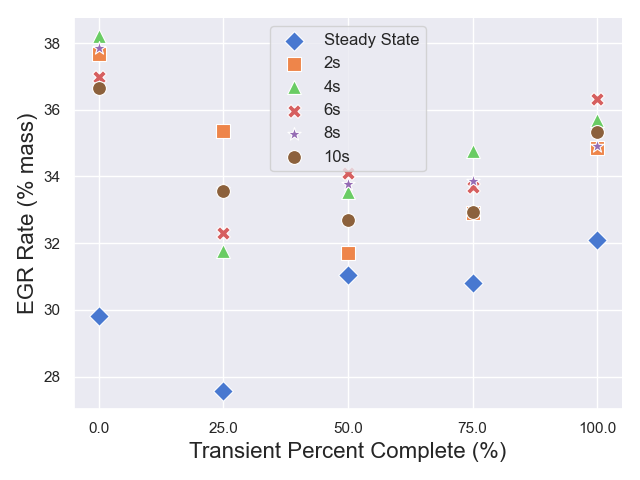
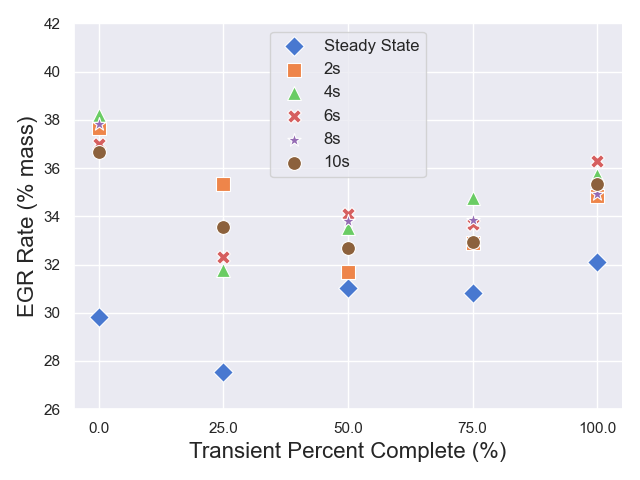
Formatted figures for submission

diff --git a/main.py b/main.py
@@ -280,7 +280,7 @@ def plot_transient_time_comparison_boost(transient_type, style):
     plt.show(block=False)
 
 
-def plot_transient_time_comparison_egr(transient_type, style):
+def plot_transient_time_comparison_egr(transient_type, style, custom_y_limits=None):
     sns.set_style(style)
 
     transient_times = [2, 4, 6, 8, 10]
@@ -312,6 +312,8 @@ def plot_transient_time_comparison_egr(transient_type, style):
         sns.scatterplot(x=[100 * x for x in percent_complete], y=values, label=str(transient_times[idx]) + "s",
                         ax=ax, legend=False, s=sizes, marker=marker_styles[idx])
 
+    if custom_y_limits is not None:
+        ax.set_ylim(custom_y_limits)
     ax.set_ylabel("EGR Rate (% mass)", fontsize=common_label_font_size)
     ax.set_xlabel("Transient Percent Complete (%)", fontsize=common_label_font_size)
     ax.set_xticks([100 * x for x in percent_complete])  # <--- set the ticks first
@@ -325,7 +327,7 @@ def plot_transient_time_comparison_egr(transient_type, style):
     plt.show(block=False)
 
 
-def plot_transient_time_comparison_bsfc(transient_type, style):
+def plot_transient_time_comparison_bsfc(transient_type, style, custom_y_limits=None):
     sns.set_style(style)
 
     transient_times = [2, 4, 6, 8, 10]
@@ -357,6 +359,8 @@ def plot_transient_time_comparison_bsfc(transient_type, style):
         sns.scatterplot(x=[100 * x for x in percent_complete], y=values, label=str(transient_times[idx]) + "s",
                         ax=ax, legend=False, s=sizes, marker=marker_styles[idx])
 
+    if custom_y_limits is not None:
+        ax.set_ylim(custom_y_limits)
     ax.set_ylabel("BSFC (g/kWh)", fontsize=common_label_font_size)
     ax.set_xlabel("Transient Percent Complete (%)", fontsize=common_label_font_size)
     ax.set_xticks([100 * x for x in percent_complete])  # <--- set the ticks first
@@ -370,7 +374,7 @@ def plot_transient_time_comparison_bsfc(transient_type, style):
     plt.show(block=False)
 
 
-def plot_transient_time_comparison_bspm(transient_type, style):
+def plot_transient_time_comparison_bspm(transient_type, style, custom_y_limits=None, number_legend_columns=1):
     sns.set_style(style)
 
     transient_times = [2, 4, 6, 8, 10]
@@ -401,13 +405,14 @@ def plot_transient_time_comparison_bspm(transient_type, style):
 
         sns.scatterplot(x=[100 * x for x in percent_complete], y=values, label=str(transient_times[idx]) + "s",
                         ax=ax, legend=False, s=sizes, marker=marker_styles[idx])
-
+    if custom_y_limits is not None:
+        ax.set_ylim(custom_y_limits)
     ax.set_yscale("log")
     ax.set_ylabel("BSPM (g/kWh)", fontsize=common_label_font_size)
     ax.set_xlabel("Transient Percent Complete (%)", fontsize=common_label_font_size)
     ax.set_xticks([100 * x for x in percent_complete])  # <--- set the ticks first
     ax.set_xticklabels([100 * x for x in percent_complete])
-    ax.legend(fontsize=common_legend_font_size)
+    ax.legend(fontsize=common_legend_font_size, ncol=number_legend_columns)
 
     plt.tight_layout()
     sns.despine()
@@ -490,9 +495,12 @@ def plot_policy_comparison_boost(policies, transient_type, style):
         values = []
         for percentage in percent_complete:
             values.append(interp(transient_complete_time[idx] * percentage).item(0))
-
-        sns.scatterplot(x=[100 * x for x in percent_complete], y=values, label="Policy " + str(policies[idx]),
-                        ax=ax, legend=False, s=sizes, marker=marker_styles[idx])
+        if idx == 0:
+            sns.scatterplot(x=[100 * x for x in percent_complete], y=values, label="Baseline",
+                            ax=ax, legend=False, s=sizes, marker=marker_styles[idx])
+        else:
+            sns.scatterplot(x=[100 * x for x in percent_complete], y=values, label="Policy " + str(policies[idx]),
+                            ax=ax, legend=False, s=sizes, marker=marker_styles[idx])
 
     ax.set_ylabel("Boost Pressure (kPa)", fontsize=common_label_font_size)
     ax.set_xlabel("Transient Percent Complete (%)", fontsize=common_label_font_size)
@@ -507,7 +515,7 @@ def plot_policy_comparison_boost(policies, transient_type, style):
     plt.show(block=False)
 
 
-def plot_policy_comparison_egr(policies, transient_type, style):
+def plot_policy_comparison_egr(policies, transient_type, style, custom_y_limits=None, number_legend_columns=1):
     sns.set_style(style)
 
     transient_complete_time = []
@@ -536,15 +544,20 @@ def plot_policy_comparison_egr(policies, transient_type, style):
         values = []
         for percentage in percent_complete:
             values.append(interp(transient_complete_time[idx] * percentage).item(0))
+        if idx == 0:
+            sns.scatterplot(x=[100 * x for x in percent_complete], y=values, label="Baseline",
+                            ax=ax, legend=False, s=sizes, marker=marker_styles[idx])
+        else:
+            sns.scatterplot(x=[100 * x for x in percent_complete], y=values, label="Policy " + str(policies[idx]),
+                            ax=ax, legend=False, s=sizes, marker=marker_styles[idx])
 
-        sns.scatterplot(x=[100 * x for x in percent_complete], y=values, label="Policy " + str(policies[idx]),
-                        ax=ax, legend=False, s=sizes, marker=marker_styles[idx])
-
+    if custom_y_limits is not None:
+        ax.set_ylim(custom_y_limits)
     ax.set_ylabel("EGR Rate (% mass)", fontsize=common_label_font_size)
     ax.set_xlabel("Transient Percent Complete (%)", fontsize=common_label_font_size)
     ax.set_xticks([100 * x for x in percent_complete])  # <--- set the ticks first
     ax.set_xticklabels([100 * x for x in percent_complete])
-    ax.legend(fontsize=common_legend_font_size)
+    ax.legend(fontsize=common_legend_font_size, ncol=number_legend_columns)
 
     plt.tight_layout()
     sns.despine()
@@ -553,7 +566,7 @@ def plot_policy_comparison_egr(policies, transient_type, style):
     plt.show(block=False)
 
 
-def plot_policy_comparison_bsfc(policies, transient_type, style):
+def plot_policy_comparison_bsfc(policies, transient_type, style, custom_y_limits=None, number_legend_columns=1):
     sns.set_style(style)
 
     transient_complete_time = []
@@ -582,15 +595,20 @@ def plot_policy_comparison_bsfc(policies, transient_type, style):
         values = []
         for percentage in percent_complete:
             values.append(interp(transient_complete_time[idx] * percentage).item(0))
+        if idx == 0:
+            sns.scatterplot(x=[100 * x for x in percent_complete], y=values, label="Baseline",
+                            ax=ax, legend=False, s=sizes, marker=marker_styles[idx])
+        else:
+            sns.scatterplot(x=[100 * x for x in percent_complete], y=values, label="Policy " + str(policies[idx]),
+                            ax=ax, legend=False, s=sizes, marker=marker_styles[idx])
 
-        sns.scatterplot(x=[100 * x for x in percent_complete], y=values, label="Policy " + str(policies[idx]),
-                        ax=ax, legend=False, s=sizes, marker=marker_styles[idx])
-
+    if custom_y_limits is not None:
+        ax.set_ylim(custom_y_limits)
     ax.set_ylabel("BSFC (g/kWh)", fontsize=common_label_font_size)
     ax.set_xlabel("Transient Percent Complete (%)", fontsize=common_label_font_size)
     ax.set_xticks([100 * x for x in percent_complete])  # <--- set the ticks first
     ax.set_xticklabels([100 * x for x in percent_complete])
-    ax.legend(fontsize=common_legend_font_size)
+    ax.legend(fontsize=common_legend_font_size, ncol=number_legend_columns)
 
     plt.tight_layout()
     sns.despine()
@@ -628,9 +646,12 @@ def plot_policy_comparison_bspm(policies, transient_type, style):
         values = []
         for percentage in percent_complete:
             values.append(interp(transient_complete_time[idx] * percentage).item(0))
-
-        sns.scatterplot(x=[100 * x for x in percent_complete], y=values, label="Policy " + str(policies[idx]),
-                        ax=ax, legend=False, s=sizes, marker=marker_styles[idx])
+        if idx == 0:
+            sns.scatterplot(x=[100 * x for x in percent_complete], y=values, label="Baseline",
+                            ax=ax, legend=False, s=sizes, marker=marker_styles[idx])
+        else:
+            sns.scatterplot(x=[100 * x for x in percent_complete], y=values, label="Policy " + str(policies[idx]),
+                            ax=ax, legend=False, s=sizes, marker=marker_styles[idx])
 
     ax.set_yscale("log")
     ax.set_ylabel("BSPM (g/kWh)", fontsize=common_label_font_size)
@@ -675,9 +696,12 @@ def plot_policy_comparison_bsno(policies, transient_type, style):
         values = []
         for percentage in percent_complete:
             values.append(interp(transient_complete_time[idx] * percentage).item(0))
-
-        sns.scatterplot(x=[100 * x for x in percent_complete], y=values, label="Policy " + str(policies[idx]),
-                        ax=ax, legend=False, s=sizes, marker=marker_styles[idx])
+        if idx == 0:
+            sns.scatterplot(x=[100 * x for x in percent_complete], y=values, label="Baseline",
+                            ax=ax, legend=False, s=sizes, marker=marker_styles[idx])
+        else:
+            sns.scatterplot(x=[100 * x for x in percent_complete], y=values, label="Policy " + str(policies[idx]),
+                            ax=ax, legend=False, s=sizes, marker=marker_styles[idx])
 
     ax.set_yscale("log")
     ax.set_ylabel("BSNO (g/kWh)", fontsize=common_label_font_size)
@@ -713,11 +737,11 @@ if __name__ == '__main__':
     #
     # plot_transient_time_comparison_boost("Load", plot_style)
     #
-    # plot_transient_time_comparison_egr("Load", plot_style)
+    # plot_transient_time_comparison_egr("Load", plot_style, custom_y_limits=[26, 42])
     #
-    # plot_transient_time_comparison_bsfc("Load", plot_style)
+    # plot_transient_time_comparison_bsfc("Load", plot_style, custom_y_limits=[160, 340])
     #
-    # plot_transient_time_comparison_bspm("Load", plot_style)
+    # plot_transient_time_comparison_bspm("Load", plot_style, custom_y_limits=[0.01, 10])
     #
     # plot_transient_time_comparison_bsno("Load", plot_style)
     #
@@ -725,28 +749,28 @@ if __name__ == '__main__':
     #
     # plot_transient_time_comparison_egr("Speed", plot_style)
     #
-    # plot_transient_time_comparison_bsfc("Speed", plot_style)
+    # plot_transient_time_comparison_bsfc("Speed", plot_style, custom_y_limits=[250, 550])
     #
-    # plot_transient_time_comparison_bspm("Speed", plot_style)
+    # plot_transient_time_comparison_bspm("Speed", plot_style, custom_y_limits=[0.01, 10], number_legend_columns=3)
     #
     # plot_transient_time_comparison_bsno("Speed", plot_style)
     #
     # plot_transient_time_comparison_boost("SpeedLoad", plot_style)
     #
-    # plot_transient_time_comparison_egr("SpeedLoad", plot_style)
+    # plot_transient_time_comparison_egr("SpeedLoad", plot_style, custom_y_limits=[10, 34])
     #
-    # plot_transient_time_comparison_bsfc("SpeedLoad", plot_style)
+    # plot_transient_time_comparison_bsfc("SpeedLoad", plot_style, custom_y_limits=[250, 1000])
     #
-    # plot_transient_time_comparison_bspm("SpeedLoad", plot_style)
+    # plot_transient_time_comparison_bspm("SpeedLoad", plot_style, custom_y_limits=[0.01, 100], number_legend_columns=3)
     #
     # plot_transient_time_comparison_bsno("SpeedLoad", plot_style)
 
     best_load_policies = [1, 5, 8, 9, 10]
     # plot_policy_comparison_boost(best_load_policies, "Load", plot_style)
     #
-    # plot_policy_comparison_egr(best_load_policies, "Load", plot_style)
+    # plot_policy_comparison_egr(best_load_policies, "Load", plot_style, custom_y_limits=[25, 42], number_legend_columns=3)
     #
-    # plot_policy_comparison_bsfc(best_load_policies, "Load", plot_style)
+    plot_policy_comparison_bsfc(best_load_policies, "Load", plot_style, custom_y_limits=[100, 500], number_legend_columns=3)
     #
     # plot_policy_comparison_bspm(best_load_policies, "Load", plot_style)
     #
